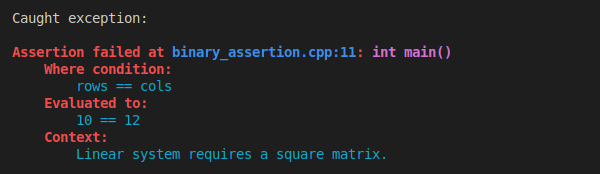
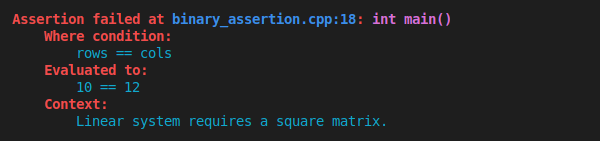
feat(assertion): v1.0.0 release. Added earlier instantiation failure with asserts to improve LSP and error messages.
docs(assertion): Finalized the docs: added images, source links, compiler explorer links and etc.

test(assertion): Added tests for the assertion macro.

diff --git a/single_include/UTL.hpp b/single_include/UTL.hpp
@@ -12,13 +12,14 @@
 #ifndef UTLHEADERGUARD_ASSERTION
 #define UTLHEADERGUARD_ASSERTION
 
-#define UTL_ASSERTION_VERSION_MAJOR 0
-#define UTL_ASSERTION_VERSION_MINOR 1
+#define UTL_ASSERTION_VERSION_MAJOR 1
+#define UTL_ASSERTION_VERSION_MINOR 0
 #define UTL_ASSERTION_VERSION_PATCH 0
 
 // _______________________ INCLUDES _______________________
 
 #include <array>       // array<>
+#include <cstdlib>     // abort()
 #include <functional>  // function<>
 #include <iostream>    // cerr
 #include <mutex>       // mutex, scoped_lock
@@ -26,12 +27,6 @@
 #include <string>      // string
 #include <string_view> // string_view
 #include <utility>     // forward(), move()
-
-#ifdef UTL_ASSERTION_ENABLE_THROW_ON_FAILURE
-#include <stdexcept> // runtime_error
-#else
-#include <cstdlib> // abort()
-#endif
 
 // ____________________ DEVELOPER DOCS ____________________
 
@@ -78,7 +73,7 @@ namespace utl::assertion::impl {
 
 template <class T>
 [[nodiscard]] std::string stringify(const T& value) {
-    return (std::ostringstream{} << value).str();
+    return (std::ostringstream{} << value).str(); // in C++20 can be done much faster with std::format
 }
 
 template <class... Args>
@@ -100,6 +95,16 @@ constexpr std::string_view bold_magenta = "\033[35;1m";
 constexpr std::string_view reset        = "\033[0m";
 
 } // namespace colors
+
+// SFINAE to restrict assertion captures to printable types. It doesn't affect functionality
+// since non-printable types would cause compile error regardless, but we can use it to
+// improve LSP highlighting and error message by failing the instantiation early
+template <class T, class = void>
+struct is_printable : std::false_type {};
+
+template <class T>
+struct is_printable<T, std::void_t<decltype(std::declval<std::ostringstream>() << std::declval<T>())>>
+    : std::true_type {};
 
 // =============================
 // --- Decomposed operations ---
@@ -234,6 +239,9 @@ void set_handler(std::function<void(const FailureInfo&)> new_handler) {
 
 template <class T>
 struct UnaryCapture {
+    static_assert(is_printable<T>::value,
+                  "Decomposed expression values should be printable with 'std::ostream::operator<<()'.");
+
     const Info& info;
 
     T value;
@@ -267,6 +275,9 @@ void handle_capture(UnaryCapture<T>&& capture) {
 
 template <class T, class U, Operation Op>
 struct BinaryCapture {
+    static_assert(is_printable<T>::value && is_printable<U>::value,
+                  "Decomposed expression values should be printable with 'std::ostream::operator<<()'.");
+    
     const Info& info;
 
     T lhs;
@@ -401,7 +412,7 @@ using impl::set_handler;
 } // namespace utl::assertion
 
 #endif
-#endif // module utl::XXXXXXXXXXXX
+#endif // module utl::assertion
 
 
 

diff --git a/include/UTL/assertion.hpp b/include/UTL/assertion.hpp
@@ -12,13 +12,14 @@
 #ifndef UTLHEADERGUARD_ASSERTION
 #define UTLHEADERGUARD_ASSERTION
 
-#define UTL_ASSERTION_VERSION_MAJOR 0
-#define UTL_ASSERTION_VERSION_MINOR 1
+#define UTL_ASSERTION_VERSION_MAJOR 1
+#define UTL_ASSERTION_VERSION_MINOR 0
 #define UTL_ASSERTION_VERSION_PATCH 0
 
 // _______________________ INCLUDES _______________________
 
 #include <array>       // array<>
+#include <cstdlib>     // abort()
 #include <functional>  // function<>
 #include <iostream>    // cerr
 #include <mutex>       // mutex, scoped_lock
@@ -26,12 +27,6 @@
 #include <string>      // string
 #include <string_view> // string_view
 #include <utility>     // forward(), move()
-
-#ifdef UTL_ASSERTION_ENABLE_THROW_ON_FAILURE
-#include <stdexcept> // runtime_error
-#else
-#include <cstdlib> // abort()
-#endif
 
 // ____________________ DEVELOPER DOCS ____________________
 
@@ -78,7 +73,7 @@ namespace utl::assertion::impl {
 
 template <class T>
 [[nodiscard]] std::string stringify(const T& value) {
-    return (std::ostringstream{} << value).str();
+    return (std::ostringstream{} << value).str(); // in C++20 can be done much faster with std::format
 }
 
 template <class... Args>
@@ -100,6 +95,16 @@ constexpr std::string_view bold_magenta = "\033[35;1m";
 constexpr std::string_view reset        = "\033[0m";
 
 } // namespace colors
+
+// SFINAE to restrict assertion captures to printable types. It doesn't affect functionality
+// since non-printable types would cause compile error regardless, but we can use it to
+// improve LSP highlighting and error message by failing the instantiation early
+template <class T, class = void>
+struct is_printable : std::false_type {};
+
+template <class T>
+struct is_printable<T, std::void_t<decltype(std::declval<std::ostringstream>() << std::declval<T>())>>
+    : std::true_type {};
 
 // =============================
 // --- Decomposed operations ---
@@ -234,6 +239,9 @@ void set_handler(std::function<void(const FailureInfo&)> new_handler) {
 
 template <class T>
 struct UnaryCapture {
+    static_assert(is_printable<T>::value,
+                  "Decomposed expression values should be printable with 'std::ostream::operator<<()'.");
+
     const Info& info;
 
     T value;
@@ -267,6 +275,9 @@ void handle_capture(UnaryCapture<T>&& capture) {
 
 template <class T, class U, Operation Op>
 struct BinaryCapture {
+    static_assert(is_printable<T>::value && is_printable<U>::value,
+                  "Decomposed expression values should be printable with 'std::ostream::operator<<()'.");
+    
     const Info& info;
 
     T lhs;
@@ -401,4 +412,4 @@ using impl::set_handler;
 } // namespace utl::assertion
 
 #endif
-#endif // module utl::XXXXXXXXXXXX
+#endif // module utl::assertion

diff --git a/tests/module_assertion/assertions.cpp b/tests/module_assertion/assertions.cpp
@@ -1,0 +1,55 @@
+#include "tests/common.hpp"
+
+#define UTL_ASSERTION_ENABLE_SHORTCUT
+#define UTL_ASSERTION_ENABLE_IN_RELEASE
+#include "include/UTL/assertion.hpp"
+
+// _______________________ INCLUDES _______________________
+
+#include <array>     // array<>
+#include <memory>    // make_unique()
+#include <stdexcept> // runtime_error
+
+// ____________________ IMPLEMENTATION ____________________
+
+TEST_CASE("Assertions") {
+    // Make assertions throw instead of aborting so we can test them
+    assertion::set_handler([](const assertion::FailureInfo& info) { throw std::runtime_error(info.to_string()); });
+
+    // Test all the decomposed binary operators
+    CHECK_NOTHROW(ASSERT(2 + 1 < 4));
+    CHECK_NOTHROW(ASSERT(2 + 1 <= 4));
+    CHECK_NOTHROW(ASSERT(2 + 2 <= 4));
+    CHECK_NOTHROW(ASSERT(2 + 2 == 4));
+    CHECK_NOTHROW(ASSERT(2 + 2 != 5));
+    CHECK_NOTHROW(ASSERT(2 + 2 >= 4));
+    CHECK_NOTHROW(ASSERT(2 + 3 >= 4));
+    CHECK_NOTHROW(ASSERT(2 + 3 > 4));
+
+    CHECK_THROWS(ASSERT(2 + 1 > 4));
+    CHECK_THROWS(ASSERT(2 + 2 > 4));
+    CHECK_THROWS(ASSERT(2 + 1 >= 4));
+    CHECK_THROWS(ASSERT(2 + 2 != 4));
+    CHECK_THROWS(ASSERT(2 + 2 == 5));
+    CHECK_THROWS(ASSERT(2 + 3 <= 4));
+    CHECK_THROWS(ASSERT(2 + 2 < 4));
+    CHECK_THROWS(ASSERT(2 + 3 < 4));
+
+    // Test various unary assertions
+    const auto array = std::array{1, 2, 3};
+    const auto ptr   = std::make_unique<int>(1);
+
+    CHECK_NOTHROW(ASSERT(true));
+    CHECK_NOTHROW(ASSERT(1));
+    CHECK_NOTHROW(ASSERT(-1));
+    CHECK_NOTHROW(ASSERT(std::size_t(15)));
+    CHECK_NOTHROW(ASSERT(array.data()));
+    CHECK_NOTHROW(ASSERT(array.size()));
+    CHECK_NOTHROW(ASSERT(ptr.get()));
+
+    CHECK_THROWS(ASSERT(false));
+    CHECK_THROWS(ASSERT(0));
+    CHECK_THROWS(ASSERT(5 - 5));
+    CHECK_THROWS(ASSERT(std::size_t(0)));
+    CHECK_THROWS(ASSERT(nullptr));
+}

diff --git a/examples/module_assertion/binary_assertion.cpp b/examples/module_assertion/binary_assertion.cpp
@@ -3,7 +3,6 @@
 #include "include/UTL/assertion.hpp"
 
 #include <csignal>
-#include <cassert>
 
 int main() {
 	#ifdef _WIN32

diff --git a/docs/module_assertion.md b/docs/module_assertion.md
@@ -14,20 +14,9 @@
 
 [<- to README.md](..)
 
-[<- to implementation.hpp](../include/UTL/math.hpp)
+[<- to implementation.hpp](../include/UTL/assertion.hpp)
 
 **utl::assertion** header provides an (almost) drop-in replacement for the standard `assert()` with nicer semantics and more diagnostic info.
-
-**Quick showcase:**
-
-```cpp
-const int rows = 10;
-const int cols = 12;
-
-TRY( ASSERT(rows == cols, "Linear system requires a square matrix."); )
-```
-
-<img src ="images/assertion_binary_assertion.png">
 
 **Main features:**
 
@@ -36,7 +25,17 @@ TRY( ASSERT(rows == cols, "Linear system requires a square matrix."); )
 - Customizable assert handler
 - Nicely colored output
 - An option to enable assertions in `Release`
-- An option to throw instead of aborting
+
+**Quick showcase:**
+
+```cpp
+const int rows = 10;
+const int cols = 12;
+
+ASSERT(rows == cols, "Linear system requires a square matrix.");
+```
+
+<img src ="images/assertion_binary_assertion.png">
 
 ## Definitions
 
@@ -75,9 +74,9 @@ void set_handler(std::function<void(const FailureInfo&)> handler);
 
 A macro semantically similar to [`assert()`](https://en.cppreference.com/w/cpp/error/assert.html).
 
-In `Debug` mode (which means `NDEBUG` is defined) checks whether `condition` is `true` and invokes assert handler in the case of failure.
+In `Debug` mode (which means `NDEBUG` is not defined) checks whether `condition` is `true` and invokes assert handler in the case of failure.
 
-In `Release` mode (which means `NDEBUG` is not defined) compiles to nothing.
+In `Release` mode (which means `NDEBUG` is defined) compiles to nothing.
 
 **Differences relative to the standard `assert()`:**
 
@@ -131,15 +130,15 @@ When defined before including the header, this macro enables full filepath displ
 
 A struct that contains all of the information about a failed assertion:
 
-| Field                      | Content                                                      |
-| -------------------------- | ------------------------------------------------------------ |
-| `file` / `line` / `func`   | File / line / function from which assertion failure was triggered |
-| `expression `/ `evaluated` | Asserted condition before / after being evaluated            |
-| `context`                  | Optional message                                             |
+| Field                      | Content                                                               |
+| -------------------------- | --------------------------------------------------------------------- |
+| `file` / `line` / `func`   | File / line / function from which the assertion failure was triggered |
+| `expression `/ `evaluated` | Asserted condition before / after being evaluated                     |
+| `context`                  | Optional message                                                      |
 
-Can be stringified with `to_string()` method, which uses ANSI color codes to improve readability when `color` is set to `true`.
+It can be stringified with `to_string()` method, which uses ANSI color codes to improve readability when `color` is set to `true`.
 
-**Note:** If `context` was no provided, it defaults to `<no context provided>`
+**Note:** If `context` was no provided, it defaults to `<no context provided>`.
 
 > ```cpp
 > void set_handler(std::function<void(const FailureInfo&)> handler);
@@ -168,7 +167,7 @@ Can be stringified with `to_string()` method, which uses ANSI color codes to imp
 
 ### Unary assertion
 
-[ [Run this code]() ] [ [Open source file](../examples/module_assertion/unary_assertion.cpp) ]
+[ [Run this code](https://godbolt.org/z/3c7zsdjs7) ] [ [Open source file](../examples/module_assertion/unary_assertion.cpp) ]
 
 ```cpp
 std::unique_ptr<int> component;
@@ -182,7 +181,7 @@ Output:
 
 ### Binary assertion
 
-[ [Run this code]() ] [ [Open source file](../examples/module_assertion/binary_assertion.cpp) ]
+[ [Run this code](https://godbolt.org/z/3n4aqxqx7) ] [ [Open source file](../examples/module_assertion/binary_assertion.cpp) ]
 
 ```cpp
 const int rows = 10;
@@ -197,18 +196,18 @@ Output:
 
 ### Default message
 
-[ [Run this code]() ] [ [Open source file]() ]
+[ [Run this code](https://godbolt.org/z/4zjqP4zad) ] [ [Open source file](../examples/module_assertion/default_message.cpp) ]
 
 ```cpp
 // Second argument is optional, this can be used like a regular assert
 ASSERT(2 + 4 == 17);
 ```
 
-Output:
+<img src ="images/assertion_default_message.png">
 
 ### Logging on failure
 
-[ [Run this code]() ] [ [Open source file]() ]
+[ [Run this code](https://godbolt.org/z/bhdfj7a91) ] [ [Open source file](../examples/module_assertion/logging_on_failure.cpp) ]
 
 ```cpp
 utl::assertion::set_handler([](const utl::assertion::FailureInfo& info) {
@@ -225,7 +224,17 @@ ASSERT(3 + 4 < 6);
 
 Output:
 
+<img src ="images/assertion_logging_on_failure.png">
+
 `failure.txt`:
 
 ```
+Assertion failed at logging_on_failure.cpp:24: int main()
+    Where condition:
+        3 + 4 < 6
+    Evaluated to:
+        7 < 6
+    Context:
+        <no context provided>
+
 ```
